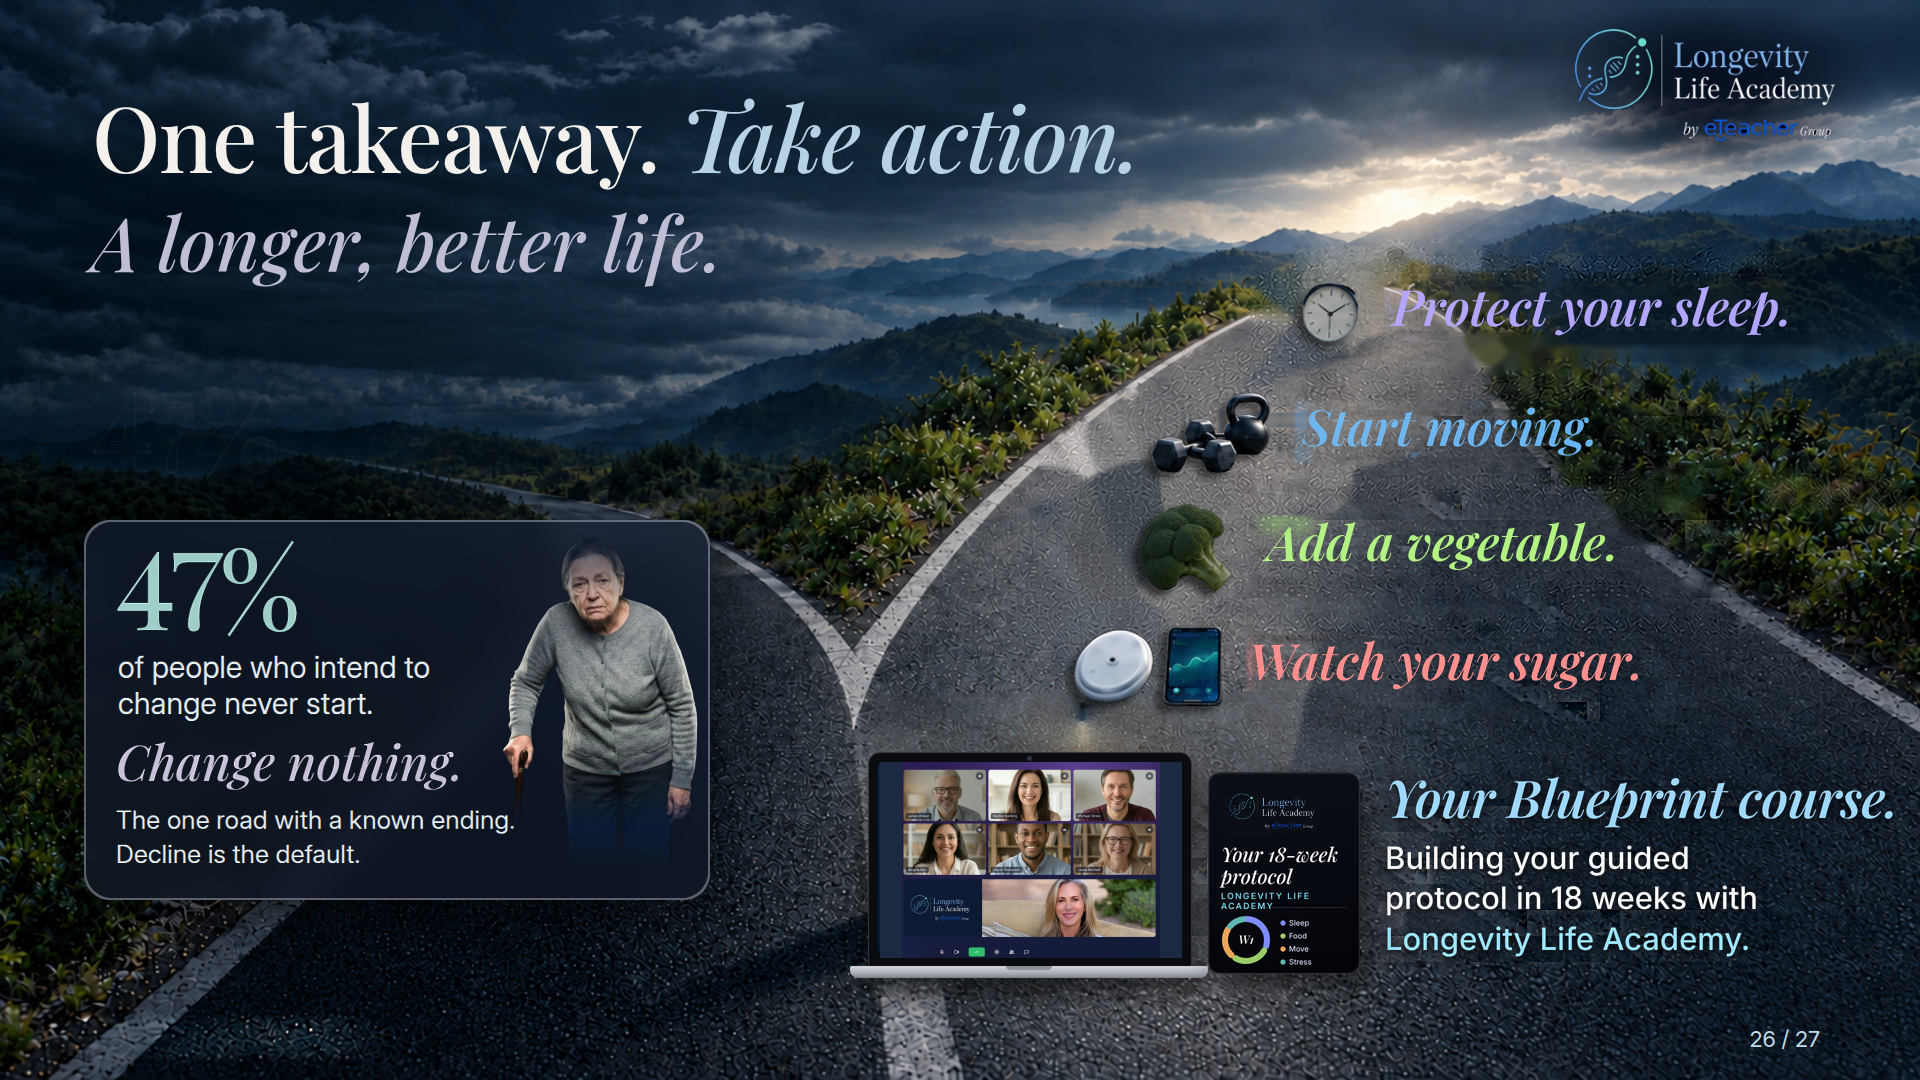
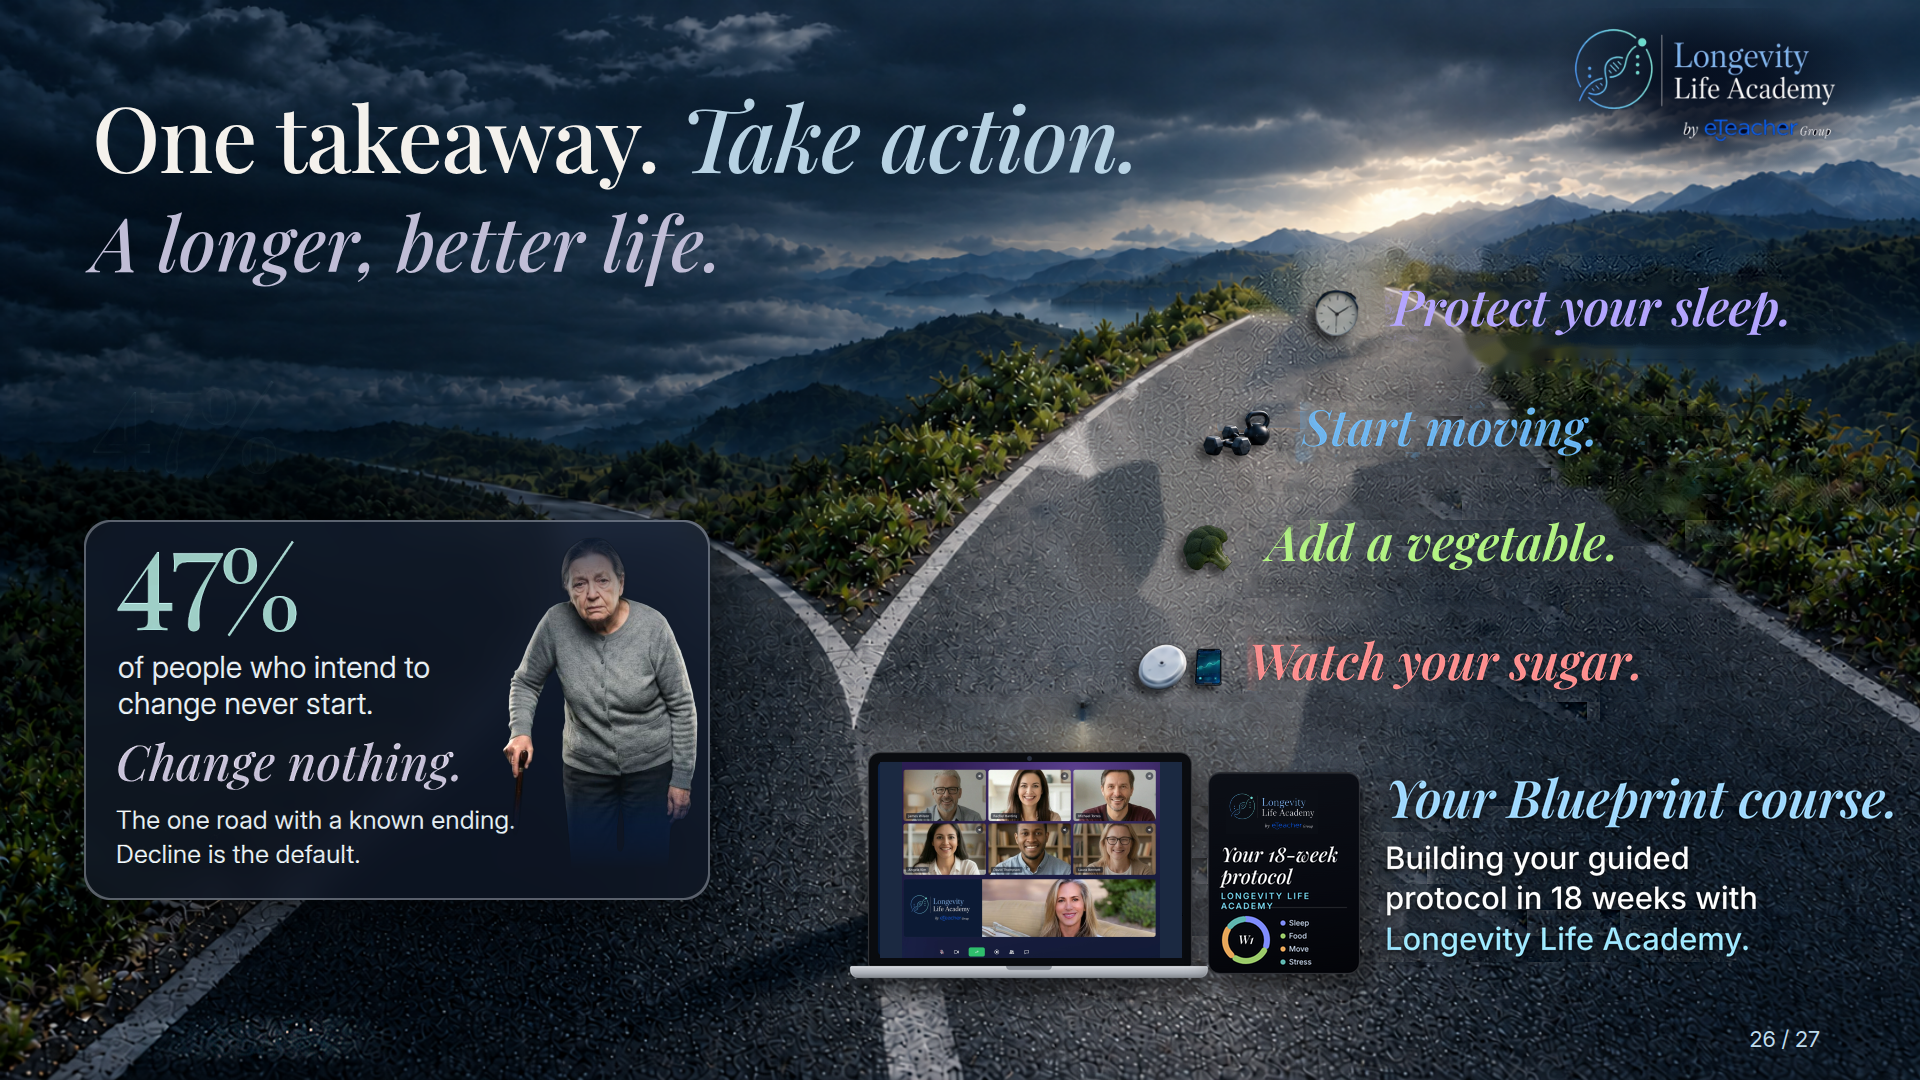
n25 fork: all objects same height (46px ~1.3x cap), centred on headlines, residue cleaned; v46 z13/y26

Changed region(s): [[0.5938, 0.3667, 0.6875, 0.55], [0.5312, 0.5806, 0.6562, 0.6722], [0.6562, 0.2444, 0.7188, 0.3361]]

diff --git a/slide-canvas/v46/corrections.js b/slide-canvas/v46/corrections.js
@@ -78,7 +78,7 @@ const sxRisks=newSlot('sx-risks','assets/n22-risks.jpg?v=v46y22','The four risks
 const sxBz=newSlot('sx-bz','assets/n23-bluezones.jpg?v=v46y22','The Blue Zones.','Added from the Round 13 page (slide 07, The Blue Zones). Placed before the menopause slide.','x2');
 const sxBr=newSlot('sx-brulee','assets/n24-brulee.jpg?v=v46y22','Crème brûlée and wrinkles.','Added from the Round 13 page (slide 13, Crème brûlée and wrinkles). Placed after the sugar slide, before Same age.','x3');
 const sxReligion=newSlot('sx-religion','assets/n26-religion.jpg?v=v46y22','Take the religion out of your diet.','New statement slide: only the sentence, large. Carries the religion part of the old plate-slide script; the pillars follow, then the plate.','x5');
-const sxFork=newSlot('sx-fork','assets/n25-fork.png?v=v46z12','One takeaway. Take action. (closing)','Closing slide: exactly the Julie deck slide 22 at commit f220cbd, unchanged (image file additional-take-action-20261026.png). It ends the deck.','x4');
+const sxFork=newSlot('sx-fork','assets/n25-fork.png?v=v46z13','One takeaway. Take action. (closing)','Closing slide: exactly the Julie deck slide 22 at commit f220cbd, unchanged (image file additional-take-action-20261026.png). It ends the deck.','x4');
 const sxSugar=newSlot('sx-sugar','assets/n28-sugar-limit.jpg?v=v46y22','Six teaspoons: the daily limit for added sugar.','New slide after the crème brûlée. Script it covers (quoted): “Here’s where the data points to a hard ceiling: keep your added sugar to under twenty-five grams a day. That’s roughly six teaspoons.” Then: “birthday cake is too precious of a tradition to scrap for watermelon cake. Sorry not gonna happen. But in it’s rightful place - once in a blue moon - it’s ok.” Then the CGM: “every student in the Longevity Life Academy will wear a CGM for two weeks.” Time 0:30, taken from the brûlée slide (now 0:30).','x6');
 const sxMwB=newSlot('sx-mw-julie','assets/n27-movement-week-julie.jpg?v=v46y22','Julie Gibson Clark’s Movement Week.','Movement week (option 2), Claude B, Protocol, slide 13. Marked V2. Julie to update. The full protocol follows after the stress slide.','x7');
 // The user's original slide references define the order, not inferred numbering.

diff --git a/slide-canvas/v46/index.html b/slide-canvas/v46/index.html
@@ -65,7 +65,7 @@ textarea:focus{outline:none;border-color:#006EFF;box-shadow:0 0 0 3px rgba(0,110
 <button id="send" class="btn p" onclick="sendAll()">Send my comments</button>
 <div id="lb" onclick="this.classList.remove('on')"><img id="lbimg" src="" alt=""><div class="x">Close</div></div>
 <div id="play"><img id="pimg" src="" alt=""><div class="x" onclick="stopPlay()">Close, Esc</div><div class="c" id="pc"></div></div>
-<script src="corrections.js?v=20261027-v46y25"></script>
+<script src="corrections.js?v=20261027-v46y26"></script>
 <script>
 const P=allSlots.map(s=>s.querySelector('img.main').getAttribute('src'));let k=0;
 const T=[...document.querySelectorAll('textarea')];

diff --git a/slide-canvas/fork-lab/index.html b/slide-canvas/fork-lab/index.html
@@ -1,4 +1,4 @@
 <!doctype html><html><head><meta charset="utf-8"><title>Fork lab – slide 26</title>
 <style>body{margin:0;background:#0b1220;color:#dfe7f3;font:15px/1.4 Inter,system-ui,sans-serif}h2{font-weight:500;margin:28px 24px 10px}img{display:block;width:calc(100% - 48px);max-width:1920px;margin:0 24px 24px;border-radius:6px}</style></head>
 <body><h2>Original</h2><img src="original-n25-fork.png?v=1" alt="Original">
-<h2>New</h2><img src="new-n25-fork.png?v=14" alt="New"></body></html>
+<h2>New</h2><img src="new-n25-fork.png?v=15" alt="New"></body></html>

diff --git a/slide-canvas/fork-lab/src/b8.py b/slide-canvas/fork-lab/src/b8.py
@@ -21,29 +21,31 @@ for y0,y1,x0 in [(265,360,1290),(385,480,1290),(500,595,1250),(620,712,1240)]:
     rows.append((y0+(good.min()+good.max())/2,x0+np.where(mk.any(0))[0].min()))
 print(rows)
 GAP=32
-# 1 clock: native original pixels (integer shift, no resampling)
-cc=np.array(Image.open('c_clock.png')).astype(np.float32);ox,oy=1250,255
-A=(cc[...,3:]/255);a0,b0,a1,b1=bb(cc)
-cy,xl=rows[0];dx=int(round(xl-GAP-(ox+a1)));dy=int(round(cy-(oy+(b0+b1)/2)))
-h,w=A.shape[:2];patch=O[oy:oy+h,ox:ox+w]
-x,y=ox+dx,oy+dy
-s=cv2.GaussianBlur(A[...,0],(0,0),3.5);s=cv2.warpAffine(s,np.float32([[1,0,-7],[0,1,6]]),(w,h))[...,None]
-R[y:y+h,x:x+w]*=1-0.45*s*(1-A);R[y:y+h,x:x+w]=R[y:y+h,x:x+w]*(1-A)+patch*A
-print('clock',x+a0,y+b0,x+a1,y+b1)
-# 2 weights 0.63
-c=ld('c_dumb.png',0.63);a0,b0,a1,b1=bb(c);cy,xl=rows[1]
-x=int(round(xl-GAP-a1));y=int(round(cy-(b0+b1)/2));put(R,c,x,y);print('dumb',x+a0,y+b0,x+a1,y+b1)
-# 3 broccoli
-c=np.array(Image.open('c_broc.png').convert('RGBA')).astype(np.float32)[225:731,249:785]
-c[...,3]=np.clip((c[...,3]-60)/170,0,1)*255;sc=88/c.shape[0];c=cv2.resize(c,(int(c.shape[1]*sc),88),interpolation=cv2.INTER_AREA)
-c[...,:3]*=0.62;g=c[...,:3].mean(2,keepdims=True);c[...,:3]=g+(c[...,:3]-g)*0.8;c=np.pad(c,((24,24),(24,24),(0,0)))
-a0,b0,a1,b1=bb(c);cy,xl=rows[2];x=int(round(xl-GAP-a1));y=int(round(cy-(b0+b1)/2));put(R,c,x,y,0.6);print('broc',x+a0,y+b0,x+a1,y+b1)
-# 4 CGM bigger + phone smaller
-cg=np.array(Image.open('c_cgm.png')).astype(np.float32)
-sen=cg[:,:98];ph=cg[:,98:]
-def sc_(a,s):return np.pad(cv2.resize(a,(int(a.shape[1]*s),int(a.shape[0]*s)),interpolation=cv2.INTER_CUBIC if s>1 else cv2.INTER_AREA),((24,24),(24,24),(0,0)))
-ph=sc_(ph,0.68);sen=sc_(sen,1.35);cy,xl=rows[3]
-a0,b0,a1,b1=bb(ph);px=int(round(xl-GAP-a1));py=int(round(cy-(b0+b1)/2));put(R,ph,px,py)
-s0,t0,s1,t1=bb(sen);sx=int(px+a0-10-s1);sy=int(round(cy-(t0+t1)/2));put(R,sen,sx,sy)
-print('cgm',sx+s0,sy+t0,'phone',px+a0,py+b0,px+a1,py+b1)
-cv2.imwrite('new.png',np.clip(np.round(R),0,255).astype(np.uint8))
+C=np.load('C.npy')
+for x0,y0,x1,y1 in [(1190,400,1300,432),(1240,505,1310,545)]:
+    sub=R[y0:y1,x0:x1];sat=sub.max(2)-sub.min(2);t=((sat>60)&(sub.max(2)>140)).astype(np.uint8)
+    t=cv2.dilate(t,np.ones((5,5),np.uint8)).astype(np.float32)[...,None]
+    R[y0:y1,x0:x1]=sub*t+C[y0:y1,x0:x1]*(1-t)
+TH=46
+pt=R[362:392,1185:1298].copy();al=np.ones((30,113),np.float32);al=cv2.GaussianBlur(np.pad(al[4:-4,4:-4],4),(0,0),2)[...,None]
+sub=R[398:428,1185:1298];sat=sub.max(2)-sub.min(2);keep=cv2.dilate(((sat>60)&(sub.max(2)>140)).astype(np.uint8),np.ones((5,5),np.uint8)).astype(np.float32)[...,None]
+a2=al*(1-keep);R[398:428,1185:1298]=sub*(1-a2)+pt*a2
+def tight(c):
+    a0,b0,a1,b1=bb(c);return c[b0:b1+1,a0:a1+1]
+def toh(c,h):
+    c=tight(c);s=h/c.shape[0];c=cv2.resize(c,(max(1,int(round(c.shape[1]*s))),h),interpolation=cv2.INTER_AREA)
+    return np.pad(c,((24,24),(24,24),(0,0)))
+def place(c,cy,right,op=0.5):
+    a0,b0,a1,b1=bb(c);x=int(round(right-a1));y=int(round(cy-(b0+b1)/2));put(R,c,x,y,op);return x+a0,y+b0,x+a1,y+b1
+cc=np.array(Image.open('c_clock.png')).astype(np.float32);ox,oy=1250,255;h,w=cc.shape[:2]
+clock=np.dstack([O[oy:oy+h,ox:ox+w][...,::-1],cc[...,3:]])
+dumb=np.array(Image.open('c_dumb.png')).astype(np.float32)
+br=np.array(Image.open('c_broc.png').convert('RGBA')).astype(np.float32);br[...,3]=np.clip((br[...,3]-60)/170,0,1)*255
+br[...,:3]*=0.62;g=br[...,:3].mean(2,keepdims=True);br[...,:3]=g+(br[...,:3]-g)*0.8
+cg=np.array(Image.open('c_cgm.png')).astype(np.float32);sen=cg[:,:98];ph=cg[:,98:]
+for nm,c,(cy,xl) in [('clock',clock,rows[0]),('dumb',dumb,rows[1]),('broc',br,rows[2])]:
+    print(nm,place(toh(c,TH),cy,xl-GAP))
+cy,xl=rows[3]
+p=place(toh(ph,38),cy,xl-GAP);print('phone',p)
+print('sensor',place(toh(sen,TH),cy,p[0]-8))
+cv2.imwrite('z18.png',np.clip(R,0,255).astype(np.uint8)[250:720,1000:1500]);cv2.imwrite('new.png',np.clip(np.round(R),0,255).astype(np.uint8))

diff --git a/slide-canvas/fork-lab/src/b6.py b/slide-canvas/fork-lab/src/b6.py
@@ -26,5 +26,5 @@ for cy,xl in [(312,1390),(432,1301),(547,1263),(666,1253)]:
     reg[int(cy-31):int(cy+31),xl-6:]=0
 reg=cv2.GaussianBlur(reg,(0,0),1.5)[...,None]
 out=F*(1-reg)+C*reg
-cv2.imwrite('new6.png',np.clip(out,0,255).astype(np.uint8))
+np.save('C.npy',C);cv2.imwrite('new6.png',np.clip(out,0,255).astype(np.uint8))
 cv2.imwrite('z12.png',np.clip(out,0,255).astype(np.uint8)[220:740,1000:1700])
